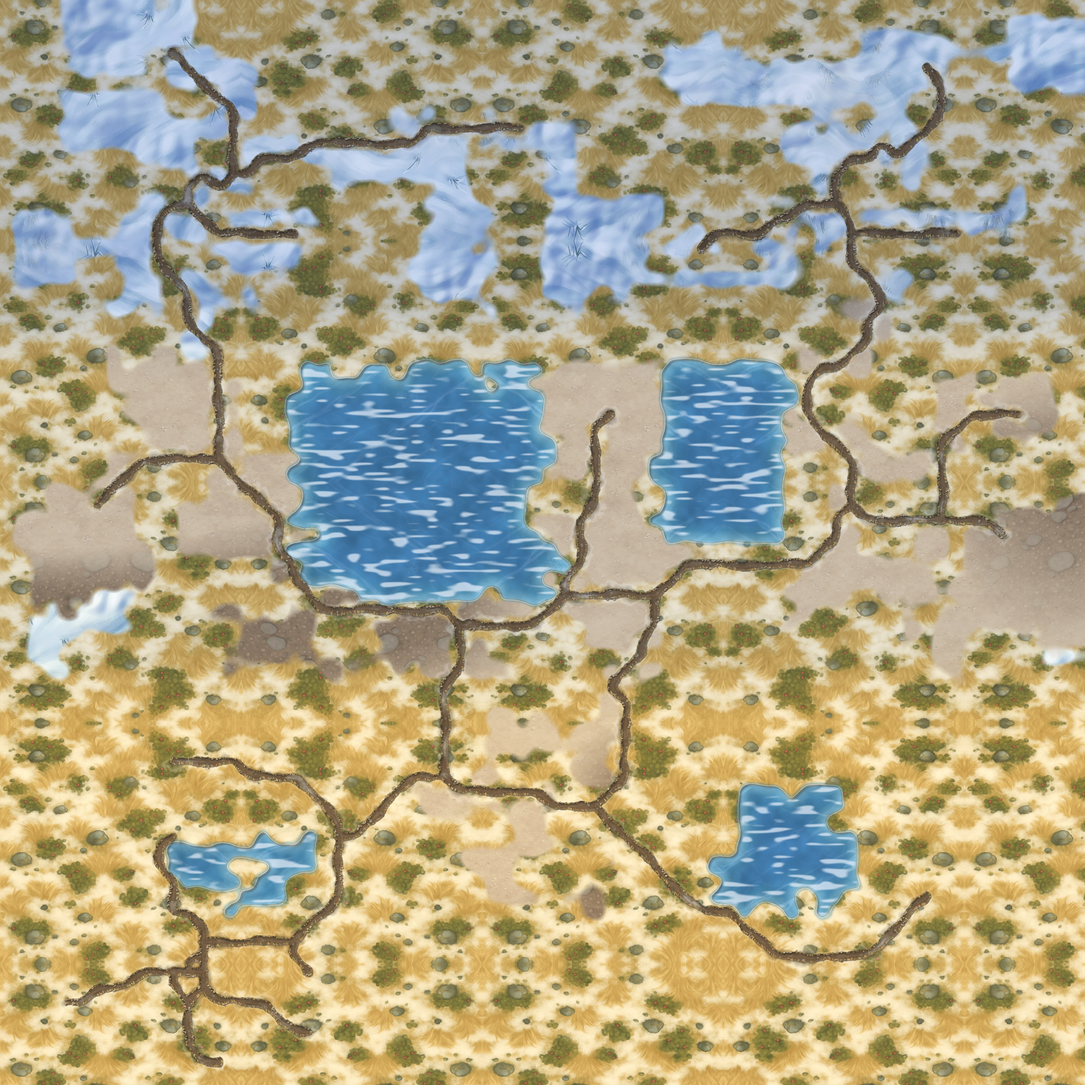
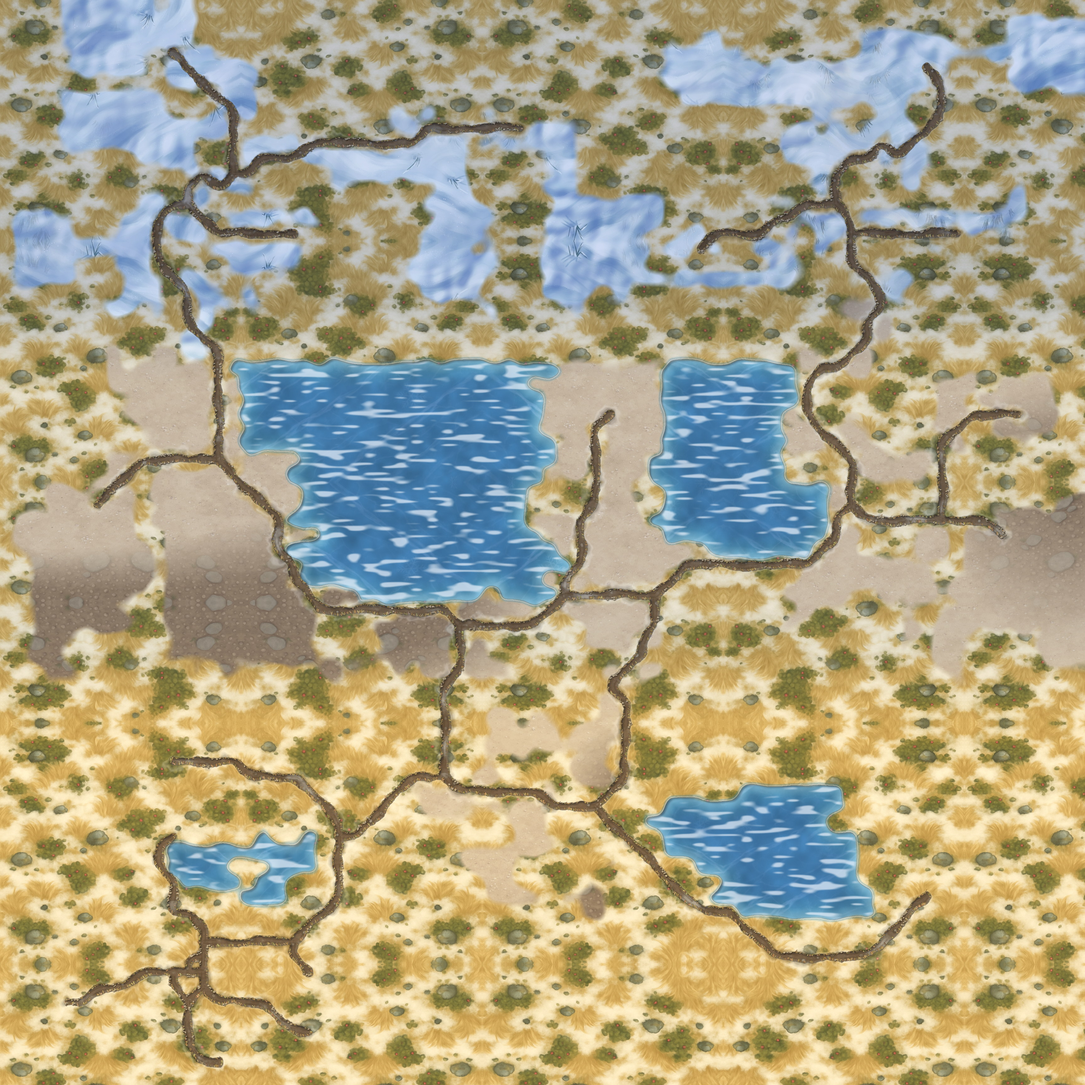
Twierdza: runda 6 planszy — polany zamiast boru w dolinach, międzyjezierze odchudzone, łaty śniegu scalone
Zachodnia dolina tundry i dolina gracza otwarte (bór tylko jako mur
zatok), bór na brzegach jezior w lód; międzyjezierze 18 → 13
obiektów; śnieg w pasie y 24–44 w jałową ziemię, kałuża w łąkę,
pokeball do stosu przy kopalni; nowe stosy przy kopalniach pasa
spornego. 182 obiekty co 11,5 pola, bór+skały 49,5 %, pasy
17/40/47/45/33, bez bitwy 26 %, maks. 16 na oknie. probe-misja OK.

Claude-Session: https://claude.ai/code/session_01BGiaZhgTwDgLbUxsH7vpi6

diff --git a/src/data/plansza-teren-twierdza.ts b/src/data/plansza-teren-twierdza.ts
@@ -33,27 +33,27 @@ export const TEREN = [
   '############=s###########################################=j#############',
   '############s=###########################################=j#############',
   '##T####j##jjss=######################################j#j=jT#TTTT###TTT##',
-  'TTTTTTTjTjjTjj=TTTTT~~TT~~T~~~~T~~~~Tjjjjjjj~~~~~~~~Tj==jjTTTTTTTTTTTTTT',
-  'TTTTTTTjjjjjjj=jTTTT~~~~~~~~~~~~T~~jjjjjjjjj~~~~~~~~~=####TTTTjjjTjjjjTT',
-  'TTTTTTTTjjjjjj=jTTT~~~~~~~~~~~~~~~~~jjjjjjjj~~~~~~~~~=####TTTTjjTjjjjjTT',
-  'TTTTTTTTjjjjjj=jTTT~~~~~~~~~~~~~~~~~jjjj=jjj~~~~~~~~j=####TTTTjj====jjTT',
-  'TTTTTTTTTTjjjj=jTTT~~~~~~~~~~~~~~~~~jjj=jjjj~~~~~~~~jj=jjjTTTTj=TTjjjjTT',
-  'TTTTTTTTTTjjjj=jTTT~~~~~~~~~~~~~~~~~~jj=jjjj~~~~~~~~jjj=jjTTTT=jTTTTTTTT',
+  'TTTTTTTjTjjTjj=~~~~~~~~~~~~~~~~~~~~~~jjjjjjj~~~~~~~~~j==jjTTTTTTTTTTTTTT',
+  'TTTTTTTjjjjjjj=j~~~~~~~~~~~~~~~~~~~jjjjjjjjj~~~~~~~~~=####TTTTjjjTjjjjTT',
+  'TTTTTTTTjjjjjj=j~~~~~~~~~~~~~~~~~~~~jjjjjjjj~~~~~~~~~=####TTTTjjTjjjjjTT',
+  'TTTTTTTTjjjjjj=j~~~~~~~~~~~~~~~~~~~~jjjj=jjj~~~~~~~~j=####TTTTjj====jjTT',
+  'TTTTTTTTTTjjjj=j~~~~~~~~~~~~~~~~~~~~jjj=jjjj~~~~~~~~jj=jjjTTTTj=TTjjjjTT',
+  'TTTTTTTTTTjjjj=j~~~~~~~~~~~~~~~~~~~~~jj=jjjj~~~~~~~~jjj=jjTTTT=jTTTTTTTT',
   'TT#####jj======jjjjj~~~~~~~~~~~~~~~~~jj=jjj~~~~~~~~~####=jjjjj=#######TT',
-  'TT#####j=TTTTTj=jjj~~~~~~~~~~~~~~~~~jjj=jjj~~~~~~~~~####=jjjjj=#######TT',
-  'TTTjjTj=jTTTTTjj=jjj~~~~~~~~~~~~~~~####=jjTT~~~~~~~~TTTj=TTTTT=#######TT',
-  'TTTjjj=jjTTTjjjjj=jj~~~~~~~~~~~~~~~####=jjTT~~~~~~~~TTTj=TTTTT=#######jj',
-  'TjjjjjjjjTTTjjjjjj=~~~~~~~~~~~~~~~~jjj=jjjj~~~~~~~~~TTT=j=========jjjjjj',
-  'TjjjjjjjjTTTjjjjjj=jj~~~~~~~~~~~~~~~jj=jjjjj~~~~~~~~TTT=jTTTTjjTjj=jjjjj',
-  'TjjjjjjjjjTTjjjjjj=~~~~~~~~~~~~~~~~~~j=jjjjjjjjTTTTTTT=jjTTTTjjTjjjjjjjj',
-  'TTjjjjjjjjTTTTTTTTj=~~~~~~~~~~~~~~~~~~=jjjjjj=========jjjjjjjjTTjjjjjjjj',
-  'TTjjjjjjjjTTTTTTTTj=~~~~~~~~~~~~~~~~j=jjjjjj=TTTTTTTTjjjjjjjjjTjjjjjjjjj',
-  'TTjjjjsssTTTTTTTTTTT=jjj~~~~~~~~j~~~~=======########jjjjTTjjjjTjjjjjjjjj',
-  'TTjsjsssTTTTTTjjTTTTj=========jjjjjj=jjjjjj=########TjTTTTTTjTTjjjjjjjjj',
-  'TTsssssssTTTTTTTjjjjjTTTTjjjjj======TTTjjjj=########jTTTTTTTjTjjjjjjjjjj',
-  'TTsssTTTTTTTTTTTjjjjjTTTTjjjjj=jTTTTTTTjjj=j#########TTTTTTTjTjjTTTTTjjj',
-  'TTssTTTTTTTTTTTjjjjTjTTTTjjjjj=jTTTTTTTTTj=T#########TTTTTTTTTjjTTTTTsss',
-  '###ss##########j#####jjj##j#jj=jjj######j=jj#########T#####T###j########',
+  'TT#####j=Tjjjjj=jjj~~~~~~~~~~~~~~~~~jjj=jjj~~~~~~~~~####=jjjjj=#######TT',
+  'TTTjjTj=jTjjjjjj=jjj~~~~~~~~~~~~~~~####=jjTT~~~~~~~~~~~j=TTTTT=#######TT',
+  'TTTjjj=jjTjjjjjjj=jj~~~~~~~~~~~~~~~####=jjTT~~~~~~~~~~~j=TTTTT=#######jj',
+  'TjjjjjjjjTjjjjjjjj=~~~~~~~~~~~~~~~~jjj=jjjj~~~~~~~~~~~~=j=========jjjjjj',
+  'TjjjjjjjjTTjjjjjjj=jj~~~~~~~~~~~~~~~jj=jjjjj~~~~~~~~~~~=jTTTTjjTjj=jjjjj',
+  'TjjjjjjjjjTjjjjjjj=~~~~~~~~~~~~~~~~~~j=jjjjjjjj~~~~~~~=jjTTTTjjTjjjjjjjj',
+  'TTjjjjjjjjTjjjjjjjj=~~~~~~~~~~~~~~~~~~=jjjjjj=========jjjjjjjjTTjjjjjjjj',
+  'TTjjjjjjjjTjjjjjjjj=~~~~~~~~~~~~~~~~j=jjjjjj=TTTTTTTTjjjjjjjjjTjjjjjjjjj',
+  'TTjjjjjjjTTjjjjjjjjj=jjj~~~~~~~~j~~~~=======########jjjjTTjjjjTjjjjjjjjj',
+  'TTjjjjjjTTTjjjjjjjjjj=========jjjjjj=jjjjjj=########TjTTTTTTjTTjjjjjjjjj',
+  'TTjjjjjjjTTjjjjjjjjjjTTTTjjjjj======TTTjjjj=########jTTTTTTTjTjjjjjjjjjj',
+  'TTjjjTTTTTTjjjjjjjjjjTTTTjjjjj=jTTTTTTTjjj=j#########TTTTTTTjTjjTTTTTjjj',
+  'TTjjTTTTTTTjjjjjjjjjjTTTTjjjjj=jTTTTTTTTTj=T#########TTTTTTTTTjjTTTTTjjj',
+  '###jj##########j#####jjj##j#jj=jjj######j=jj#########T#####T###j########',
   '#############################=.#########=j##############################',
   '#############################=.#########j=##############################',
   '###T#####################.#..=.#jj#j####j=########T##########.#..TT#####',
@@ -61,18 +61,18 @@ export const TEREN = [
   'TTTTTTT..............#TTT#TTT=..jjjjjjjj.=.TTTTTTTTTT#TTTTTTT....TTTTTTT',
   'TTTTTT.....=====.....TTTTTTTT=..jTTTTTjj.=.......TTTTTTTTTTTTT..TTTTTTTT',
   'TTTTT...TTTTTTT.====.......===.jjTTTTTjjj=........TTTTTTTTTTTT...TTTTTTT',
-  'TTTTTTTTTTTTTTTTTTTT=.....=jjj======j...=........~~~T~~~.TTTTT....TTTT..',
-  'TTTT.................=...=..jjjjjjjj====....TTTT.~~~~~~~.TTTTTTT........',
-  'TTT...................=.=.TTTTTTTTjj....=..TTTTT.~~~~~~.................',
-  'TTT........=.....~..~.==..TTTTTTTTjjj....=..TTTTT~~~~~~~~...####........',
-  'TTT..####.=~~~~~~~~~~.=..TTTTTjjjjjjTTTTTT=.TTTTT~~~~~~~~...#########...',
-  'TTT..#####=~~~~TTT~~~.=..TTTTTTjjjTTTTTTj..=..T~~~~~~~~~~...#########...',
-  'TTT...####.=~~~~T~~...=.TTTTTTTTjjTTTTTT....=...~~~~~~~~~......######...',
-  'T#T..####..=....~~~...=...TTTTTTjjjjTjjj.....=.~~~~~~T~~TT...=..#####...',
-  '#########..==..~.....=..TTTTTTTTTTTTTTTjTTTT..===~TT~T~TTT..=..####.....',
-  '#########....=......=..##TTTTTTTTTTTTTTTTTTTTTTTT=TTTTTTTT.=#######.....',
-  '#########....=======...##TTTTTTTTTTTTTTTTTTTTTTTTT=T......=.#######.....',
-  '#########...==.....=.......TTTT.TTTTTTTTTTTTTTTTTTT=======..#######.....',
+  'TTTTTTTTTTTTTTTTTTTT=.....=jjj======j...=........~~~~~~~.TTTTT....TTTT..',
+  'TTTT.................=...=..jjjjjjjj====....~~~~~~~~~~~~.TTTTTTT........',
+  'TTT...................=.=....TTT..jj....=..~~~~~~~~~~~~.................',
+  'TTT........=.....~..~.==.....TTT..jjj....=..~~~~~~~~~~~~~...####........',
+  'TTT..####.=~~~~~~~~~~.=..T....jjjjjj..TTTT=.~~~~~~~~~~~~~...#########...',
+  'TTT..#####=~~~~TTT~~~.=..TTTT..jjj....TTj..=..~~~~~~~~~~~...#########...',
+  'TTT...####.=~~~~T~~...=.TTTTT...jj....TT....=...~~~~~~~~~......######...',
+  'T#T..####..=....~~~...=.........jjjj.jjj.....=.~~~~~~~~~~~...=..#####...',
+  '#########..==........=..TT............TjTTTT..===~~~~~~~~~..=..####.....',
+  '#########....=......=..##T.........TTTTTTTTTTTTTT=TTTTTTTT.=#######.....',
+  '#########....=======...##T.........TTTTTTTTTTTTTTT=T......=.#######.....',
+  '#########...==.....=...............TTTTTTTTTTTTTTTT=======..#######.....',
   '###......=====TTT.TT=..TTT.........TTTTTTTTTTTTT.TT.........#######.....',
   '###...===..=.=TTT.TT...TTT..............TTTTTTTT...........########.....',
   '###.==...TT.=.====....TT..TTT..TTT......TTTTTTTTT..........########.....',
@@ -143,7 +143,6 @@ export const ROZSTAWIENIE: Array<{
   { x: 12, y: 68, rodzaj: 'potwor', strefa: 'dom', sila: 'slaby' },
   { x: 4, y: 66, rodzaj: 'kopalnia', strefa: 'dom', surowiec: 'kamien' },
   { x: 7, y: 65, rodzaj: 'potwor', strefa: 'dom', sila: 'slaby' },
-  { x: 13, y: 54, rodzaj: 'surowiec', strefa: 'dom', surowiec: 'pokeball' },
   { x: 20, y: 60, rodzaj: 'skrzynia', strefa: 'dom' },
   { x: 16, y: 61, rodzaj: 'surowiec', strefa: 'dom', surowiec: 'kamien' },
   { x: 9, y: 61, rodzaj: 'skrzynia', strefa: 'dom' },
@@ -160,6 +159,7 @@ export const ROZSTAWIENIE: Array<{
   { x: 36, y: 48, rodzaj: 'skrzynia', strefa: 'dom' },
   { x: 11, y: 49, rodzaj: 'kopalnia', strefa: 'dom', surowiec: 'odlamek' },
   { x: 13, y: 49, rodzaj: 'surowiec', strefa: 'dom', surowiec: 'pokeball' },
+  { x: 14, y: 48, rodzaj: 'surowiec', strefa: 'dom', surowiec: 'pokeball' },
   { x: 6, y: 50, rodzaj: 'skrzynia', strefa: 'dom' },
   { x: 6, y: 51, rodzaj: 'artefakt', strefa: 'dom' },
   { x: 8, y: 50, rodzaj: 'potwor', strefa: 'dom', sila: 'slaby' },
@@ -209,8 +209,6 @@ export const ROZSTAWIENIE: Array<{
   { x: 37, y: 25, rodzaj: 'surowiec', strefa: 'pogranicze', surowiec: 'kamien' },
   { x: 42, y: 25, rodzaj: 'surowiec', strefa: 'pogranicze', surowiec: 'odlamek' },
   { x: 38, y: 28, rodzaj: 'skrzynia', strefa: 'pogranicze' },
-  { x: 41, y: 29, rodzaj: 'skrzynia', strefa: 'pogranicze' },
-  { x: 43, y: 28, rodzaj: 'budynek', strefa: 'pogranicze', budynek: 'ognisko' },
   { x: 37, y: 30, rodzaj: 'budynek', strefa: 'pogranicze', budynek: 'portal' },
   { x: 66, y: 34, rodzaj: 'kopalnia', strefa: 'pogranicze', surowiec: 'kamien' },
   { x: 68, y: 36, rodzaj: 'surowiec', strefa: 'pogranicze', surowiec: 'kamien' },
@@ -223,17 +221,20 @@ export const ROZSTAWIENIE: Array<{
   { x: 42, y: 36, rodzaj: 'surowiec', strefa: 'pogranicze', surowiec: 'pokeball' },
   { x: 42, y: 38, rodzaj: 'skrzynia', strefa: 'pogranicze' },
   { x: 39, y: 37, rodzaj: 'budynek', strefa: 'pogranicze', budynek: 'zrodlo' },
-  { x: 36, y: 34, rodzaj: 'budynek', strefa: 'pogranicze', budynek: 'wiatrak' },
   { x: 59, y: 31, rodzaj: 'budynek', strefa: 'pogranicze', budynek: 'chatka' },
   { x: 26, y: 43, rodzaj: 'kopalnia', strefa: 'pogranicze', surowiec: 'odlamek' },
   { x: 15, y: 34, rodzaj: 'budynek', strefa: 'pogranicze', budynek: 'wiatrak' },
   { x: 12, y: 33, rodzaj: 'surowiec', strefa: 'pogranicze', surowiec: 'jagoda' },
   { x: 13, y: 36, rodzaj: 'budynek', strefa: 'pogranicze', budynek: 'ognisko' },
+  { x: 12, y: 38, rodzaj: 'surowiec', strefa: 'pogranicze', surowiec: 'kamien' },
   { x: 14, y: 40, rodzaj: 'budynek', strefa: 'pogranicze', budynek: 'zrodlo' },
   { x: 19, y: 42, rodzaj: 'budynek', strefa: 'pogranicze', budynek: 'gniazdo' },
   { x: 27, y: 41, rodzaj: 'budynek', strefa: 'pogranicze', budynek: 'chatka' },
-  { x: 33, y: 40, rodzaj: 'skrzynia', strefa: 'pogranicze' },
-  { x: 35, y: 40, rodzaj: 'surowiec', strefa: 'pogranicze', surowiec: 'odlamek' },
+  { x: 29, y: 43, rodzaj: 'skrzynia', strefa: 'pogranicze' },
+  { x: 31, y: 42, rodzaj: 'skrzynia', strefa: 'pogranicze' },
+  { x: 31, y: 43, rodzaj: 'surowiec', strefa: 'pogranicze', surowiec: 'jagoda' },
+  { x: 40, y: 42, rodzaj: 'surowiec', strefa: 'pogranicze', surowiec: 'pokeball' },
+  { x: 41, y: 43, rodzaj: 'skrzynia', strefa: 'pogranicze' },
   { x: 68, y: 26, rodzaj: 'budynek', strefa: 'pogranicze', budynek: 'ognisko' },
   { x: 68, y: 28, rodzaj: 'surowiec', strefa: 'pogranicze', surowiec: 'odlamek' },
   { x: 69, y: 25, rodzaj: 'skrzynia', strefa: 'pogranicze' },
@@ -259,6 +260,8 @@ export const ROZSTAWIENIE: Array<{
   { x: 10, y: 9, rodzaj: 'kopalnia', strefa: 'wroga', surowiec: 'jagoda' },
   { x: 6, y: 8, rodzaj: 'budynek', strefa: 'wroga', budynek: 'wiatrak' },
   { x: 9, y: 6, rodzaj: 'budynek', strefa: 'wroga', budynek: 'chatka' },
+  { x: 26, y: 7, rodzaj: 'skrzynia', strefa: 'wroga' },
+  { x: 28, y: 7, rodzaj: 'surowiec', strefa: 'wroga', surowiec: 'odlamek' },
   { x: 63, y: 14, rodzaj: 'kopalnia', strefa: 'wroga', surowiec: 'pokeball' },
   { x: 66, y: 15, rodzaj: 'surowiec', strefa: 'wroga', surowiec: 'kamien' },
   { x: 67, y: 13, rodzaj: 'surowiec', strefa: 'wroga', surowiec: 'pokeball' },
@@ -298,16 +301,16 @@ export const ROZSTAWIENIE: Array<{
   { x: 8, y: 31, rodzaj: 'potwor', strefa: 'pogranicze', sila: 'sredni', nazwa: 'Straż Zachodniej Zatoki' },
   { x: 63, y: 34, rodzaj: 'potwor', strefa: 'pogranicze', sila: 'sredni', nazwa: 'Straż Wschodniej Zatoki' },
   { x: 9, y: 19, rodzaj: 'jasnowidz', strefa: 'wroga' },
-  { x: 39, y: 54, rodzaj: 'budynek', strefa: 'dom', budynek: 'ognisko' },
-  { x: 18, y: 49, rodzaj: 'budynek', strefa: 'dom', budynek: 'wiatrak' },
-  { x: 71, y: 63, rodzaj: 'budynek', strefa: 'dom', budynek: 'zrodlo' },
-  { x: 52, y: 68, rodzaj: 'budynek', strefa: 'dom', budynek: 'woz' },
-  { x: 48, y: 68, rodzaj: 'budynek', strefa: 'dom', budynek: 'chatka' },
-  { x: 9, y: 15, rodzaj: 'skrzynia', strefa: 'wroga' },
+  { x: 37, y: 60, rodzaj: 'budynek', strefa: 'dom', budynek: 'ognisko' },
+  { x: 17, y: 49, rodzaj: 'budynek', strefa: 'dom', budynek: 'wiatrak' },
+  { x: 26, y: 71, rodzaj: 'budynek', strefa: 'dom', budynek: 'zrodlo' },
+  { x: 49, y: 65, rodzaj: 'budynek', strefa: 'dom', budynek: 'woz' },
+  { x: 49, y: 69, rodzaj: 'budynek', strefa: 'dom', budynek: 'chatka' },
+  { x: 8, y: 16, rodzaj: 'skrzynia', strefa: 'wroga' },
+  { x: 21, y: 10, rodzaj: 'skrzynia', strefa: 'wroga' },
+  { x: 28, y: 9, rodzaj: 'skrzynia', strefa: 'wroga' },
   { x: 12, y: 18, rodzaj: 'skrzynia', strefa: 'wroga' },
-  { x: 26, y: 8, rodzaj: 'skrzynia', strefa: 'wroga' },
-  { x: 49, y: 65, rodzaj: 'skrzynia', strefa: 'dom' },
-  { x: 12, y: 29, rodzaj: 'skrzynia', strefa: 'pogranicze' },
+  { x: 37, y: 9, rodzaj: 'skrzynia', strefa: 'wroga' },
 ];
 
 /** Ustawienia misji na tej planszy — patrz `UstawieniaPlanszy` w `src/data/mapy.ts`. */

diff --git a/tools/mapy/twierdza.py b/tools/mapy/twierdza.py
@@ -385,9 +385,12 @@ def popraw_teren(g, mapa):
     # grzbietami (y 23 i zachodni kąt przy grzbiecie południowym, x ≤ 9,
     # y ≥ 39), czyli na krawędziach stref. Koszt ruchu j < s — przejezdność
     # bez zmian.
-    for y in range(24, 43):
+    # Runda 6 pętli (krytyk E3): także kąt zachodniej zatoki (2–8, 39–43)
+    # i skraj wschodniej (69–71, 43) — łaty śniegu po 1–3 pola bez powodu;
+    # cały pas y 24–44 to jałowa ziemia.
+    for y in range(24, 45):
         for x in range(BOK):
-            if mapa[y][x] == 's' and not (x <= 9 and y >= 39):
+            if mapa[y][x] == 's':
                 mapa[y][x] = 'j'
     # G1/B3: kępy boru w pustych połaciach — zachodni bór przy trakcie nad
     # jeziorem (16–19, 25–29), bór przy trakcie wschodnim (58–61, 25–29)
@@ -609,6 +612,48 @@ def po_drogach(g, mapa):
             if mapa[y][x] == '#' and (x, y) not in w_gorze:
                 mapa[y][x] = 'T'
 
+    # Runda 6 pętli (krytyk E4/G3): „morze choinek" — bór z rundy 5 (T+#
+    # 53 %) zamienił doliny w korytarze, a źródło (14,40) stało w leśnej
+    # dziurze. Polany wycięte we wnętrzach dolin, tam gdzie bór nie obrysowuje
+    # przejścia, zatoki ani brzegu (mury zatok, pasy przy szyjkach i skraje
+    # przy krawędzi zostają). Po drogach — trakty się nie przesuwają.
+    def polana(x0, y0, x1, y1, znak, bez=()):
+        for y in range(y0, y1 + 1):
+            for x in range(x0, x1 + 1):
+                if mapa[y][x] == 'T' and (x, y) not in bez:
+                    mapa[y][x] = znak
+    # Zachodnia dolina tundry (x 10–19, y 31–43): mur zatoki (x 9–10) zostaje,
+    # reszta boru to polana — źródło (14,40) i ognisko (13,36) widać z traktu.
+    MUR_ZATOKI_W = {(9, y) for y in range(31, 36)} | {(10, y) for y in range(35, 44)} | {(9, y) for y in range(39, 44)}
+    polana(10, 31, 13, 34, 'j', MUR_ZATOKI_W)
+    polana(11, 35, 19, 43, 'j', MUR_ZATOKI_W)
+    # Dolina gracza: polana w środkowym borze (x 26–37, y 54–63) wokół wozu
+    # (32,57), połączona z południowym placem wiatraka — zostają trzy kępy
+    # 3 × 2 (scena składa z nich las) i bór od wschodu (x ≥ 38), który
+    # zamyka kieszeń za szyjką SE.
+    polana(26, 54, 37, 63, '.', {(x, y) for x in (26, 27, 28) for y in (57, 58)}
+           | {(x, y) for x in (29, 30, 31) for y in (54, 55)}
+           | {(x, y) for x in (35, 36, 37) for y in (61, 62, 63)})
+    # Bór na brzegach jezior (między traktem a lodem, między lodem a granią)
+    # staje się lodem tego samego jeziora: brzeg dalej jest brzegiem, droga
+    # idzie wzdłuż tafli zamiast wzdłuż ściany świerków, a pól przejezdnych
+    # (gęstość obiektów, B3) nie przybywa. Tylko pola stykające się z lodem.
+    def jezioro(pola):
+        for x, y in pola:
+            if mapa[y][x] == 'T':
+                mapa[y][x] = '~'
+    jezioro([(x, y) for y in range(24, 30) for x in range(15, 20) if (x, y) != (15, 25)]
+            + [(x, 24) for x in range(20, 37)])          # zachodnie jezioro
+    jezioro([(x, y) for x in range(52, 55) for y in range(32, 36)]
+            + [(x, 36) for x in range(47, 54)] + [(52, 24)])          # jezioro-zapora
+    jezioro([(x, y) for x in range(43, 49) for y in range(53, 57)] + [(46, 57), (52, 52)]
+            + [(x, y) for x in range(50, 58) for y in (59, 60)])     # jezioro SE
+    jezioro([(32, 25)])
+    # Cypel (48, 53–54) między nowym brzegiem a jeziorem — pas na pole, lód.
+    for x, y in [(48, 53), (48, 54)]:
+        if mapa[y][x] in 's.j':
+            mapa[y][x] = '~'
+
 
 def scal_plamy(mapa, poza, najwiecej=8, przebiegi=2):
     """Wtapia drobne plamy terenu przejezdnego (`s`, `.`, `j`) w otoczenie.
@@ -694,7 +739,8 @@ PIERWSZY_EKRAN = [
     # — za jaszczurem zostaje kopalnia.
     # Za stawem kupka kul na brzegu; skrzynia przy trakcie na północ; kamień
     # ewolucji przy ścieżce między wiatrakiem a spichlerzem.
-    ([(13, 54), (11, 54), (12, 54)], ('surowiec', 'pokeball')),
+    # (Runda 6 pętli, B2: kupka kul (13,54) za stawem leżała sama w polu —
+    # dołącza do stosu przy kopalni (11,49), patrz `DOLINA`.)
     ([(20, 61), (20, 60)], ('skrzynia', None)),
     ([(16, 61), (15, 61)], ('surowiec', 'kamien')),
     # Pętla 2026-10 (A3, krytyk: „w 8 krokach od bramy jeden surowiec").
@@ -727,6 +773,7 @@ DOLINA = [
     # na końcu stos i relikt pod słabą strażą w zaułku przy borze.
     ([(11, 49), (12, 49), (10, 49)], ('kopalnia', 'odlamek')),
     ([(13, 49), (14, 49)], ('surowiec', 'pokeball')),
+    ([(12, 50), (14, 48), (15, 49)], ('surowiec', 'pokeball')),
     # Runda 4 pętli (C1): zaułek zamknięty od południa (`popraw_teren`),
     # straż w wejściu od traktu, za nią skrzynia i relikt.
     ([(6, 50), (6, 48), (7, 48)], ('skrzynia', None)),
@@ -826,10 +873,9 @@ TUNDRA = [
     ([(37, 25), (38, 25)], ('surowiec', 'kamien')),
     ([(42, 25), (43, 26)], ('surowiec', 'odlamek')),
     ([(38, 28), (37, 28)], ('skrzynia', None)),
-    ([(41, 29), (42, 29)], ('skrzynia', None)),
-    # Runda 5 pętli (E2): ognisko w zakątku — środkowy pas odległości,
-    # luźny ekran (okna nad zakątkiem: 11–12).
-    ([(43, 28), (42, 28), (42, 31)], ('budynek', 'ognisko')),
+    # (Runda 6 pętli, G1: bez skrzyni (41,29) i ogniska (43,28) — ekran
+    # międzyjezierza (27–47, 24–41) miał 18 rzeczy; zostaje drzewo wiedzy
+    # ze stosem i portal.)
     ([(37, 30), (38, 30), (42, 31)], ('budynek', 'portal')),
     # Wschodnia zatoka odnogi (x 62–71, y 33–43) za średnią strażą w wejściu
     # (63, 34): kopalnia kamieni w skale, wieża obserwacyjna, artefakt, stosy
@@ -850,7 +896,7 @@ TUNDRA = [
     # odległości, na luźnym ekranie (okna 21 × 18 nad brodem: 9–11).
     ([(42, 38), (41, 38)], ('skrzynia', None)),
     ([(39, 37), (38, 37), (39, 38)], ('budynek', 'zrodlo')),
-    ([(36, 34), (37, 34), (36, 36)], ('budynek', 'wiatrak')),
+    # (Runda 6 pętli, G1: bez wiatraka (36,34) przed brodem.)
     ([(59, 31), (60, 31)], ('budynek', 'chatka')),
     # Druga kopalnia odłamków tundry przy trakcie pod jeziorem.
     ([(23, 40), (24, 40), (22, 40), (26, 43), (25, 43), (23, 43)], ('kopalnia', 'odlamek')),
@@ -859,15 +905,26 @@ TUNDRA = [
     # w zachodniej dolinie (x 10–21, y 30–44) i pod jeziorem (y 39–44).
     ([(12, 33), (12, 34)], ('surowiec', 'jagoda')),
     ([(13, 36), (14, 37)], ('budynek', 'ognisko')),
-    ([(12, 41), (13, 40), (14, 40), (15, 39), (13, 38)], ('budynek', 'zrodlo')),
+    # Runda 6 pętli (B3): kupka między ogniskiem a źródłem — stos na polanie.
+    ([(12, 38), (13, 38), (14, 38)], ('surowiec', 'kamien')),
+    ([(14, 40), (12, 41), (13, 40), (15, 39), (13, 38)], ('budynek', 'zrodlo')),
     ([(19, 42), (18, 42)], ('budynek', 'gniazdo')),
     ([(27, 41), (27, 40)], ('budynek', 'chatka')),
     # Runda 4 pętli (B2/G1): pas za bramami (x 23–43, y 39–43) bez
     # losowania — było 15 rzeczy wzdłuż drogi jak konfetti. Zostają
     # jasnowidz, dwie kopalnie, chatka i jeden stos przy drodze; skrzynia
     # (42,40) i kupka (29,43) poszły na polanę za ranczem.
-    ([(33, 40), (34, 40), (32, 40)], ('skrzynia', None)),
-    ([(35, 40), (36, 40), (35, 41)], ('surowiec', 'odlamek')),
+    # (Runda 6 pętli, G1: bez kupki (35,40) — międzyjezierze; skrzynia
+    # (33,40), która została po niej sama, dołącza do stosu niżej.)
+    ([(29, 43), (28, 42)], ('skrzynia', None)),
+    # Runda 6 pętli (B3): po przerzedzeniu boru obiekt wypadał co 12 pól —
+    # stosy 2–3 rzeczy przy trakcie pod jeziorem, poza ekranem
+    # międzyjezierza (y ≥ 42), na oknach z luzem: naprzeciw kopalni (26,43)
+    # i przy kopalni jagód (40,41) przed przełęczą wschodnią.
+    ([(31, 42), (31, 43)], ('skrzynia', None)),
+    ([(31, 43), (29, 43)], ('surowiec', 'jagoda')),
+    ([(40, 42), (39, 42)], ('surowiec', 'pokeball')),
+    ([(41, 43), (43, 42)], ('skrzynia', None)),
     # Polana za ranczem (x 66–69, y 25–28), koniec ślepej odnogi pod
     # średnią strażą w wejściu: ognisko, stos i skrzynia (z pasa za bramami
     # i z doliny Lodowej Twierdzy).
@@ -894,7 +951,10 @@ ZACHODNIA_DOLINA = (0, 24, 21, 44)
 #: Międzyjezierza z wylotem szyjki (35–43, 24–35) — ręczny stos, do którego losowanie
 #: dosypywało wiatrak, portal i kupki (ekran wschodniego jeziora: 29).
 BEZ_LOSOWANIA = [ZACHODNIA_DOLINA, (35, 24, 43, 35)]
-DOLINA_W_MAX = 28
+# Runda 6 pętli: 28 → 20 — po polanie i kupce przy ognisku dolina ma 20
+# ręcznych rzeczy; nadmiar losowania (dwie skrzynie) zbijał ekran zachodniej
+# tundry z zatoką (x 1–21, y 25–42) do 22 rzeczy.
+DOLINA_W_MAX = 20
 WROGA_MAX = 80
 #: Runda 3 (G1): pułapy nadmiaru w pasach pogranicza — (prostokąt, ile
 #: obiektów najwyżej). Bez nich nadmiar szedł w środkowy pas odległości
@@ -960,6 +1020,10 @@ TWIERDZE = [
     ([(10, 9), (9, 9), (11, 9)], ('kopalnia', 'jagoda')),
     ([(6, 8), (6, 7), (5, 8)], ('budynek', 'wiatrak')),
     ([(9, 6), (8, 7)], ('budynek', 'chatka')),
+    # Runda 6 pętli (B3): stos w skalnym zakątku nad traktem do przełęczy
+    # twierdz (26–28, 7–8) — okna nad nim mają 11–13 rzeczy.
+    ([(26, 7), (26, 8)], ('skrzynia', None)),
+    ([(28, 7), (27, 8)], ('surowiec', 'odlamek')),
     # Stos pod północną granią doliny (y 0), z dala od gęstego środka.
     # Lodowa Twierdza (58,9) — zatoka kopalni pokeballi (x 61–67, y 12–16),
     # wejście (60, 14–15).
@@ -1365,7 +1429,10 @@ def rozstaw(g):
     # nimi i pod wiatrakiem zamarza w śnieżny cypel: pola bryły i tak są
     # zablokowane, a rząd 58 to kawałek brzegu przy drodze.
     for x, y in [(13, 59), (14, 59), (15, 59), (19, 59), (20, 59), (21, 59), (22, 59),
-                 (19, 58), (20, 58), (21, 58), (23, 58), (16, 60), (21, 60)]:
+                 (19, 58), (20, 58), (21, 58), (23, 58), (16, 60), (21, 60),
+                 # Runda 6 pętli (krytyk E3/E5): kałuża (15,60) przy kopalni
+                 # odłamków — jedno pole lodu bez funkcji, zostaje łąką.
+                 (15, 60)]:
         if g.mapa[y][x] == '~':
             g.mapa[y][x] = 's'
 

diff --git a/STAN.md b/STAN.md
@@ -1807,6 +1807,49 @@ przeniesieniu tam nagród z NE). Runda 5 — zmiany tylko w `tools/mapy/twierdza
   Skrót między twierdzami przez przełęcz (34,9) nadal bez drogi na wschód od
   x 34 (Dijkstra woli okrążyć po istniejących traktach) — od rundy 2.
 
+Krytyk rundy 6 (`tools/blind/r6-twierdza-werdykt.md`): wygrana ślepo,
+26 TAK / 4 CZĘŚCIOWO / 0 NIE (E3 łaty, E4 T+# 53 % i korytarze, G1
+międzyjezierze 18 rzeczy, G3 „morze choinek", źródło (14,40) w dziurze).
+Runda 6 — zmiany tylko w `tools/mapy/twierdza.py`:
+
+- **E4/G3 — polany** (`po_drogach`, po wytyczeniu dróg, więc trakty się nie
+  przesuwają): zachodnia dolina tundry x 10–19, y 31–43 cała z boru na `j`
+  poza murem zatoki (x 9 przy y 31–35 i 39–43, x 10 przy y 35–43) — źródło
+  (14,40), ognisko (13,36), wiatrak (15,34) widać z traktu; dolina gracza
+  x 26–37, y 54–63 na `.` z trzema kępami 3 × 2 ((26–28,57–58),
+  (29–31,54–55), (35–37,61–63)), bór x ≥ 38 przy kieszeni SE zostaje.
+  Bór na brzegach jezior → lód tego samego jeziora (`jezioro`): zachodnie
+  (15–19, 24–29) i drzewa y 24 pod granią, jezioro-zapora (52–54, 32–35),
+  pas (47–53, 36) i (52,24), jezioro SE (43–48, 53–56), (46,57), (52,52),
+  drzewa w tafli (50–57, 59–60), cypel (48,53–54). Lód nie dokłada pól
+  przejezdnych, więc T+# spada bez psucia gęstości.
+- **G1**: z międzyjezierza zniknęły wiatrak (36,34), ognisko (43,28),
+  skrzynia (41,29), kupka (35,40); skrzynia (33,40) po kupce dołączyła do
+  stosu (29,43). Ekran 27–47 × 24–41: 18 → 13.
+- **E3/E5**: śnieg w całym pasie y 24–44 → `j` (kąt zatoki zachodniej
+  2–8, 39–44 i skraj wschodniej 69–71, 43); kałuża (15,60) → łąka (lista
+  zamarzania na końcu `rozstaw`); kupka kul (13,54) → (14,48) przy kopalni
+  (11,49) i kupce (13,49) — (12,50) to droga, `postaw_kadr` jej nie bierze.
+- **B3 — stosy zamiast konfetti**: kupka (12,38) między ogniskiem
+  a źródłem; pod jeziorem skrzynia (31,42) + jagody (31,43) naprzeciw
+  kopalni (26,43) i stos przy kopalni jagód (40,42)/(41,43); w krainie
+  wroga skalny zakątek nad traktem do przełęczy twierdz (26,7)/(28,7).
+  `DOLINA_W_MAX` 28 → 20 — nadmiar (dwie skrzynie) zbijał ekran zachodniej
+  tundry z zatoką do 22 rzeczy przy dowolnym położeniu kadru.
+- Liczby: 182 obiekty, co 11,5 pola (2089 przejezdnych; akceptowane —
+  pas sporny nie ma więcej luzu w oknach, przy 11,0 T+# musiałby zostać
+  ~51 %); T 27 % + # 22 % = 49,5 %, lód 10 %; pasy 17/40/47/45/33;
+  strefy dom 61 / pogranicze 63 / wroga 58; bez bitwy 26 %; okna co 10 pól
+  maks. 16, nadmiar 0 przepada, przy dowolnym położeniu kadru maks. 20;
+  straże 13 %. Sonda w scratchpadzie: każda z 23 straży dzieli teren na
+  dwie strony. `probe-mapy` Twierdza bez ŹLE, `probe-misja` OK (dwa razy,
+  za pierwszym podejściem), zrzut za pierwszym podejściem (trzy rundy
+  skryptu).
+- Zostało: T+# 49,5 % to górna granica celu (checklista krytyka 25–40);
+  dalej się nie da bez gęstości > 11,5 albo nowych jezior bez funkcji.
+  Pogranicze ledwo bogatsze od domu (63 / 61). Bór wschodniej tundry
+  (57–61, 32–36) między traktami nie ruszony — okna (50,30) mają 16.
+
 ## Profile graczy i sloty zapisu (2026-09-26)
 
 Zgłoszenie taty Eli i Janka: „Nowa gra → Kampania" kontynuowała ostatnią
